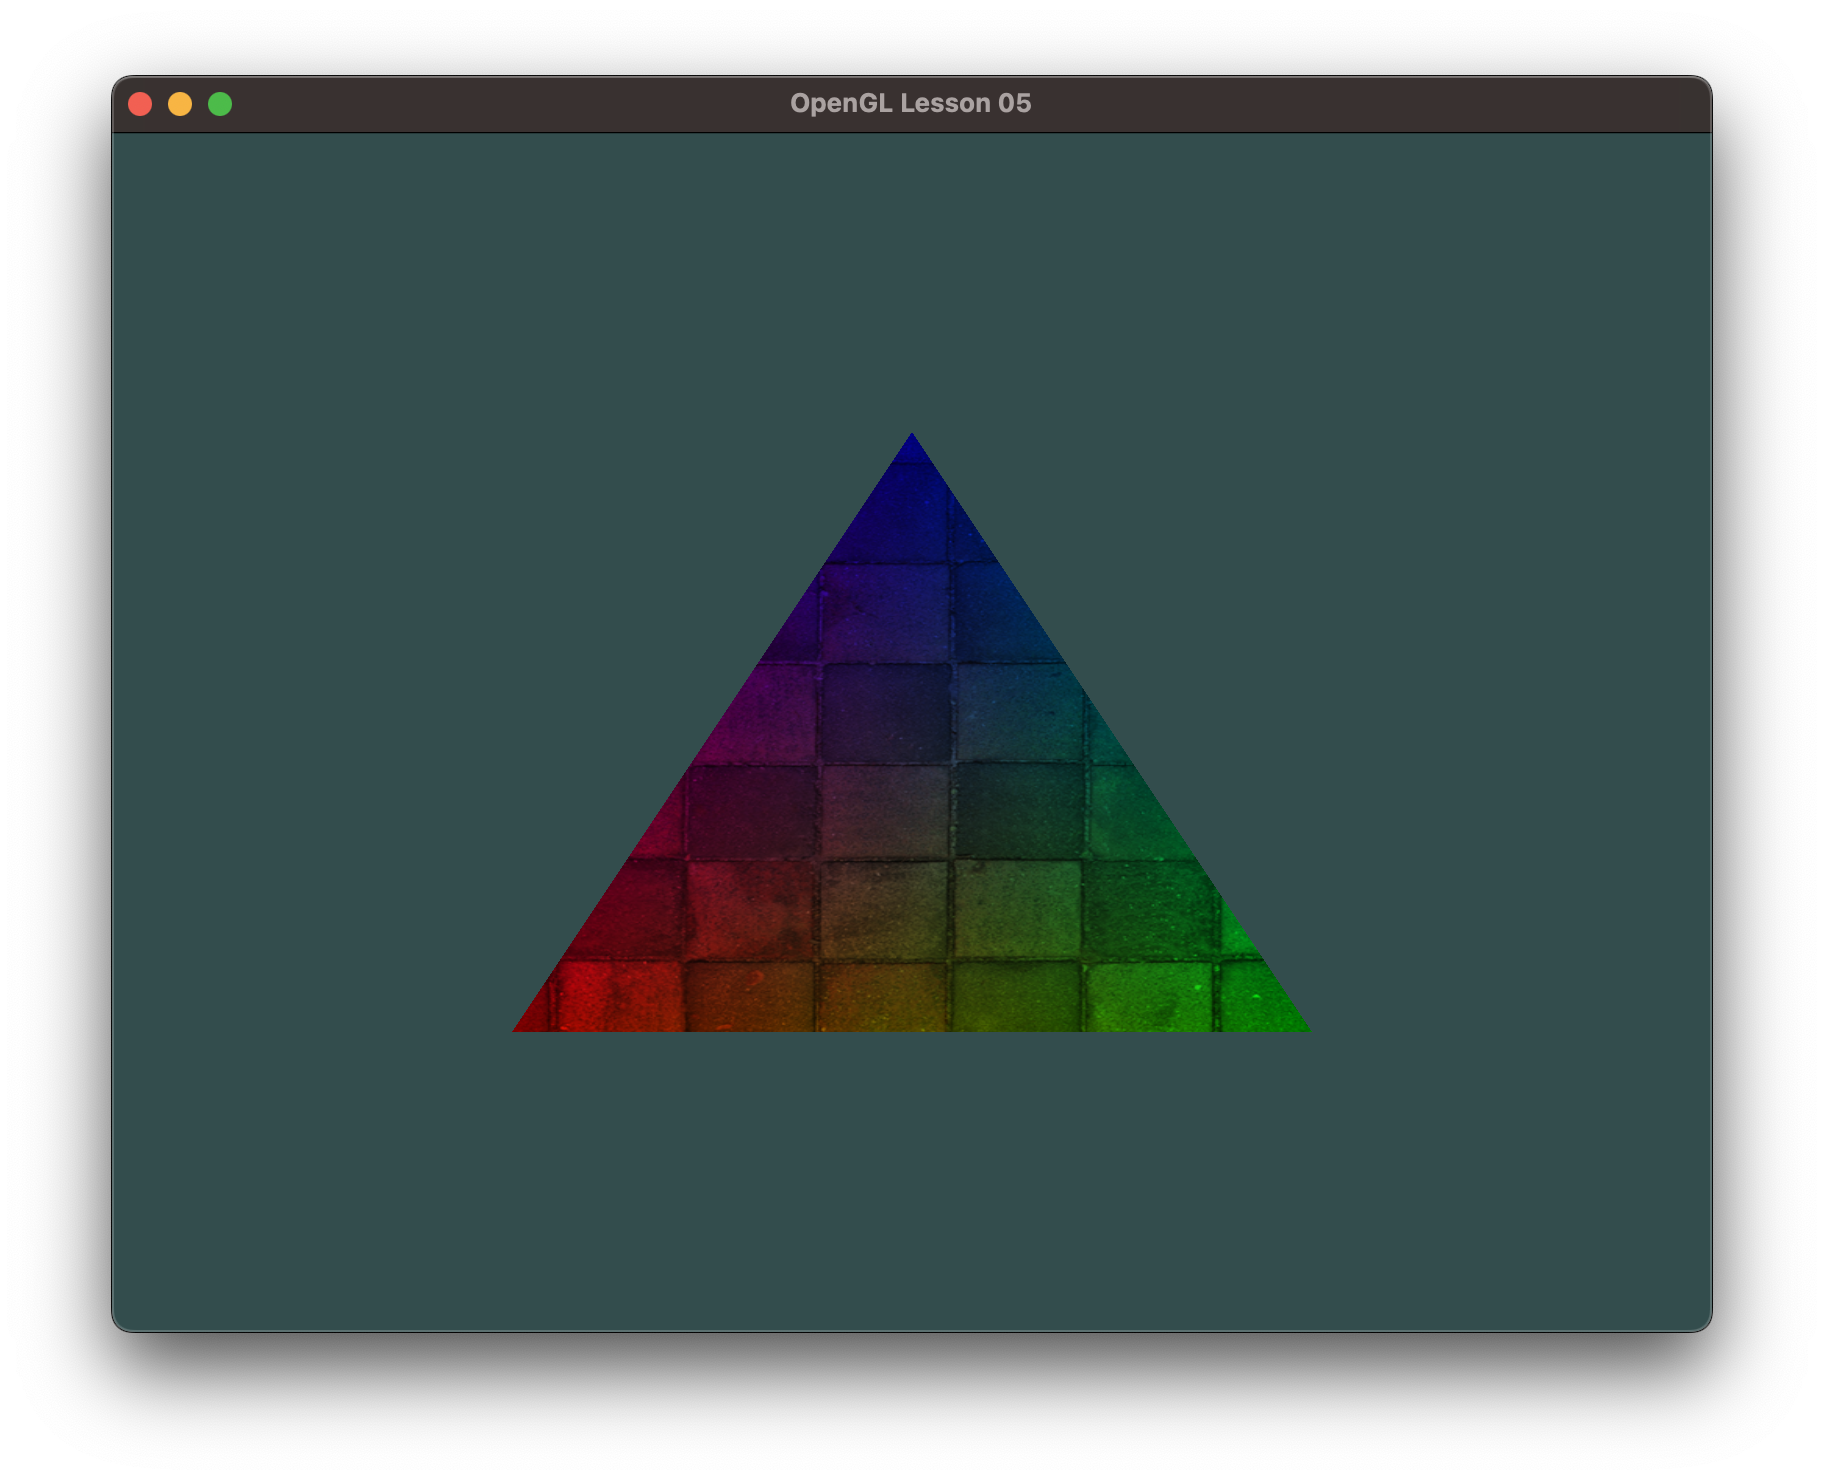
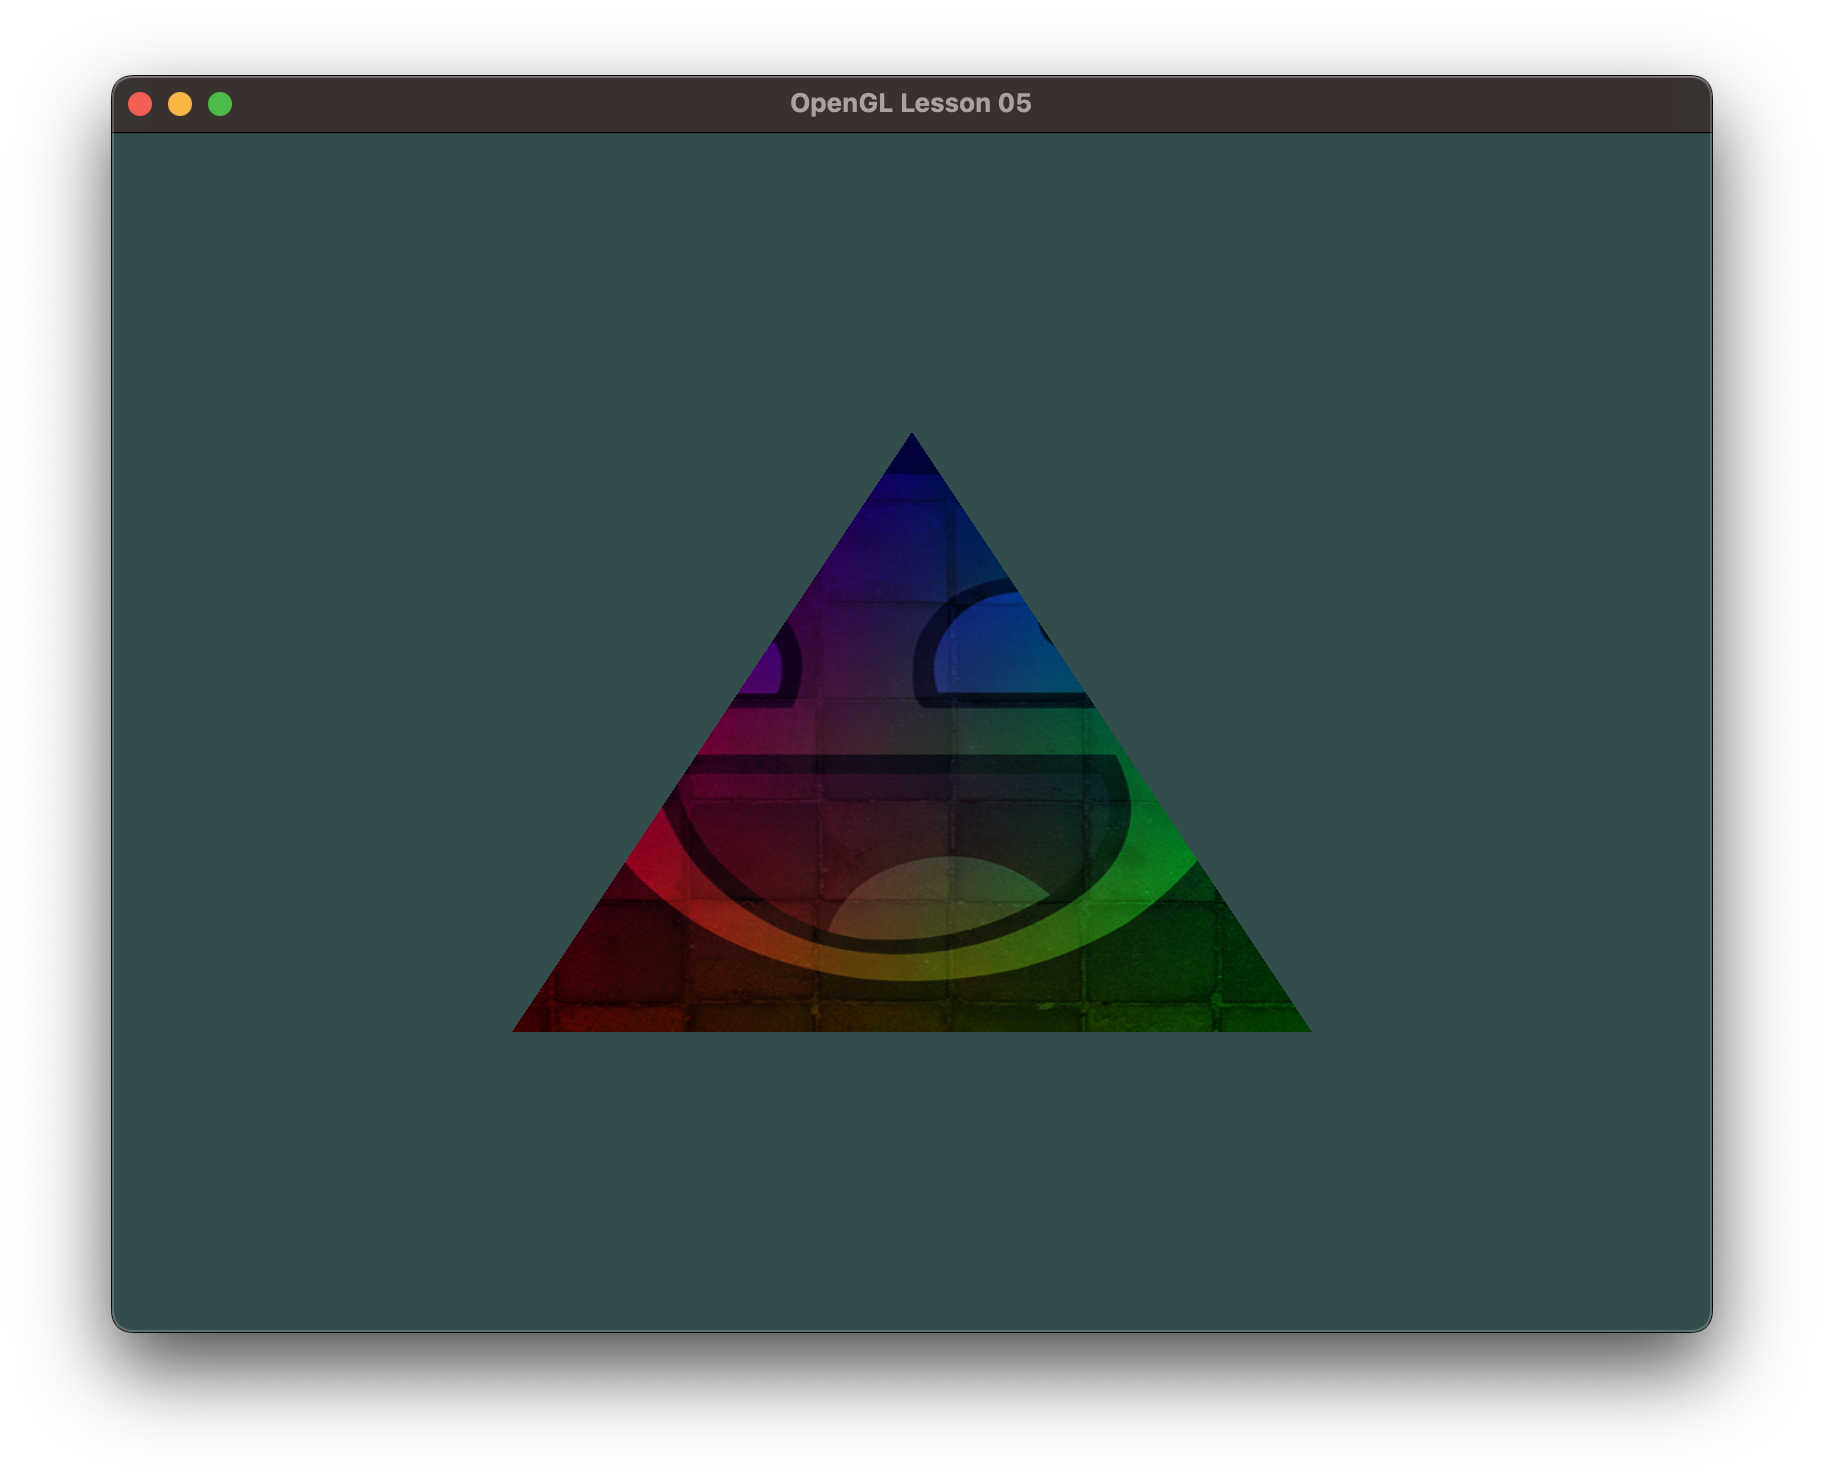
update image

Changed region(s): [[0.2812, 0.373, 0.7188, 0.7149], [0.4688, 0.3108, 0.5312, 0.3419]]

diff --git a/_posts/graphics/2023-01-09-opengl-texture.md b/_posts/graphics/2023-01-09-opengl-texture.md
@@ -76,7 +76,7 @@ glTexParameteri(GL_TEXTURE_2D, GL_TEXTURE_MIN_FILTER, GL_NEAREST);
 glTexParameteri(GL_TEXTURE_2D, GL_TEXTURE_MAG_FILTER, GL_LINEAR);
 ```
 
-## Mipmaps
+## Texture Mipmaps
 
 ![Mipmaps]({{site.static}}/images/opengl-texture-mipmaps.png)
 
@@ -130,7 +130,29 @@ glGenerateMipmap(GL_TEXTURE_2D);
 stbi_image_free(data);
 ```
 
-## vertex glsl
+## Texture Units
+
+Texture也使用一个下标叫做`texture unit`, 0是默认值, 在`bind`之前先要激活对应的`texture unit`, 取直范围`[GL_TEXTURE0, GL_TEXTURE15]`.
+
+只有一个`GL_TEXTURE0`的话，可以不用激活，不用设置`glUniformXY`
+```cpp
+// GL_TEXTURE8 = GL_TEXTURE0 + 8 
+glActiveTexture(GL_TEXTURE0); // activate the texture unit first before binding texture
+glBindTexture(GL_TEXTURE_2D, texture);
+```
+
+OpenGL有一个内置数据对象叫做`samplerXD`, X代表纬度取值范围`[1 - 3]`, 设置`glUniformXY`
+
+```cpp
+glUseProgram(shaderProgram);
+glUniform1i(glGetUniformLocation(shaderProgram, "texture1"), 0);
+glUniform1i(glGetUniformLocation(shaderProgram, "texture2"), 1);
+```
+
+
+## GLSL
+
+### Vertex Shader
 
 两个输出变量，作为`Fragment Shader`的输入
 
@@ -151,7 +173,7 @@ void main()
 }
 ```
 
-## fragment glsl
+### Fragment Shader
 
 `texture`函数根据纹理图片和坐标获取对应颜色
 
@@ -172,8 +194,27 @@ void main()
 
 ## 绘制
 
-OpenGL有一个内置数据对象叫做`samplerXD`, X = [1 - 3]
+```
+                            (0, 0)
+|                            |---------------------
+|                            |
+|                            |       
+|        OpenGL              |       Image
+|                            |
+| ----------------------     |
+(0,0)
+```
+
+由于OpenGL和图片坐标系`(0, 0)`的位置不同，所以纹理是上下颠倒的, 可以将图片上下翻转下，在传递给OpenGL
+
+```cpp
+stbi_set_flip_vertically_on_load(true);
+```
 
 ![结果]({{site.static}}/images/opengl-lesson-05-result.png)
 
 [源码](https://github.com/geemaple/learning/blob/main/learn_opengl/learn_opengl/lesson/lesson_05_texture.cpp)
+
+## 更多
+
+1. [https://learnopengl.com/Getting-started/Textures](https://learnopengl.com/Getting-started/Textures)
